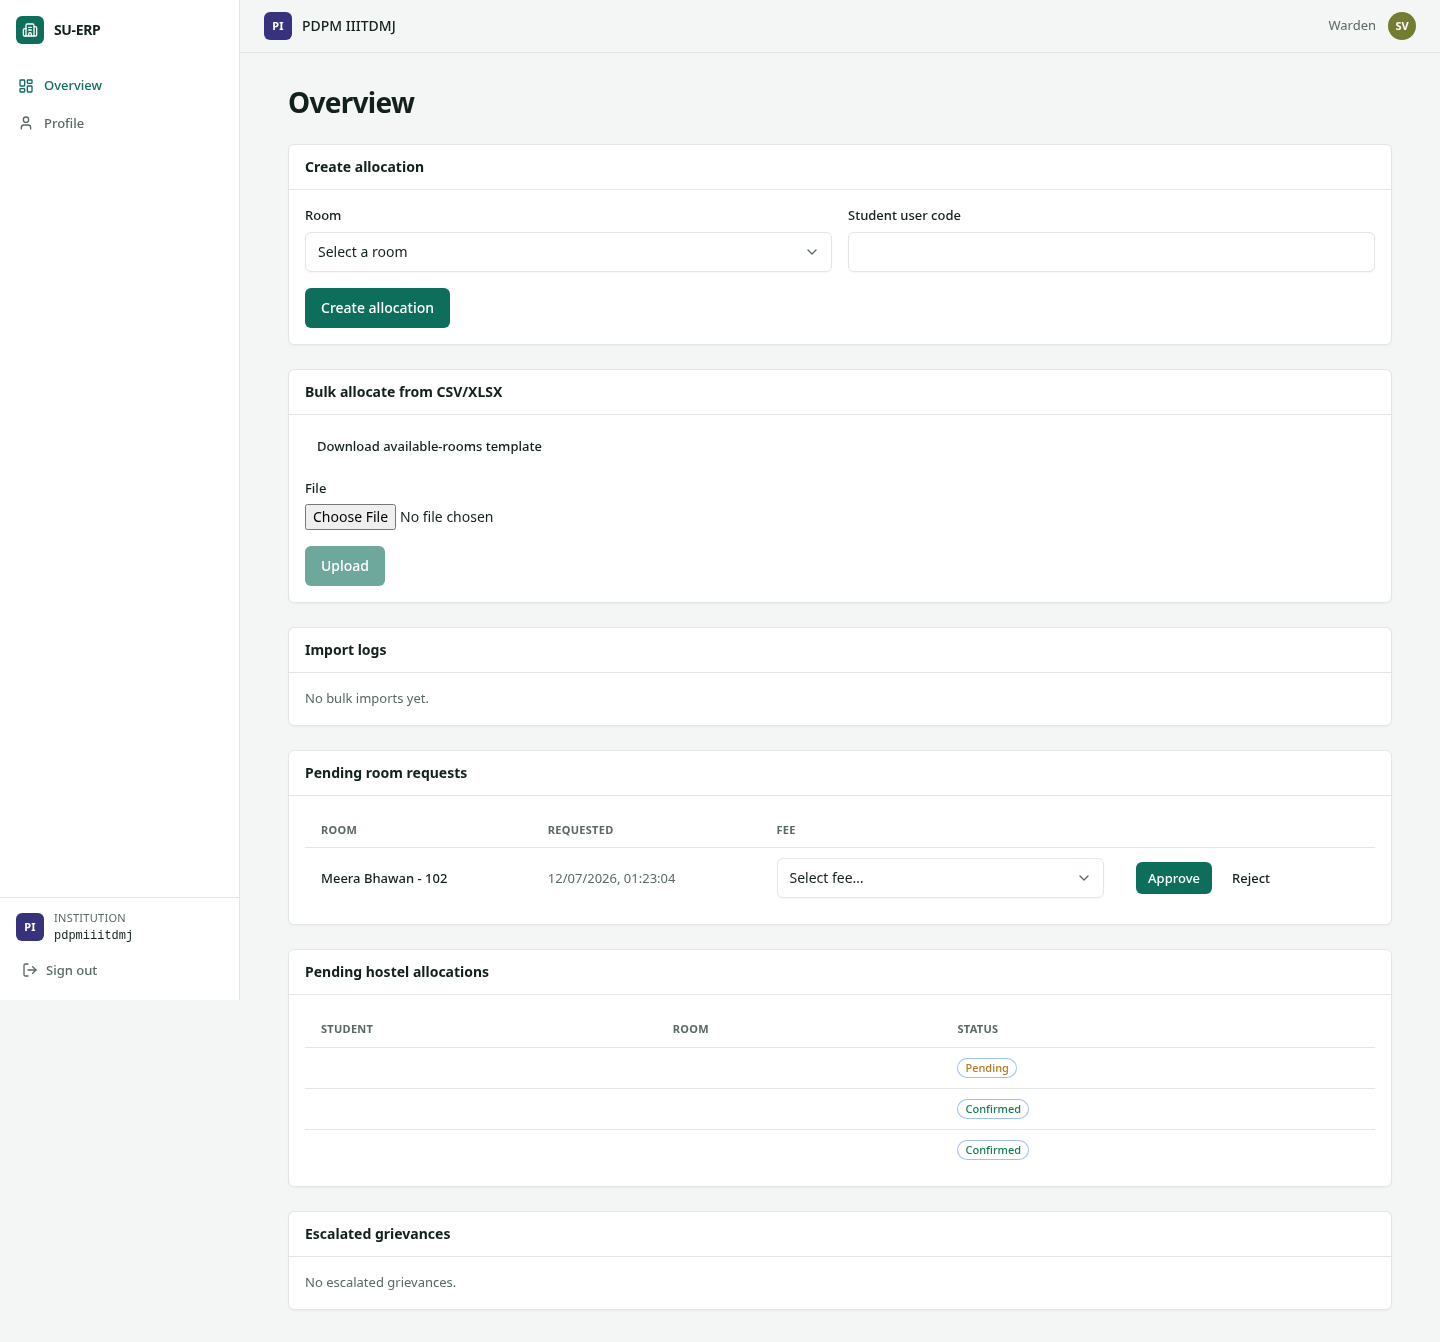
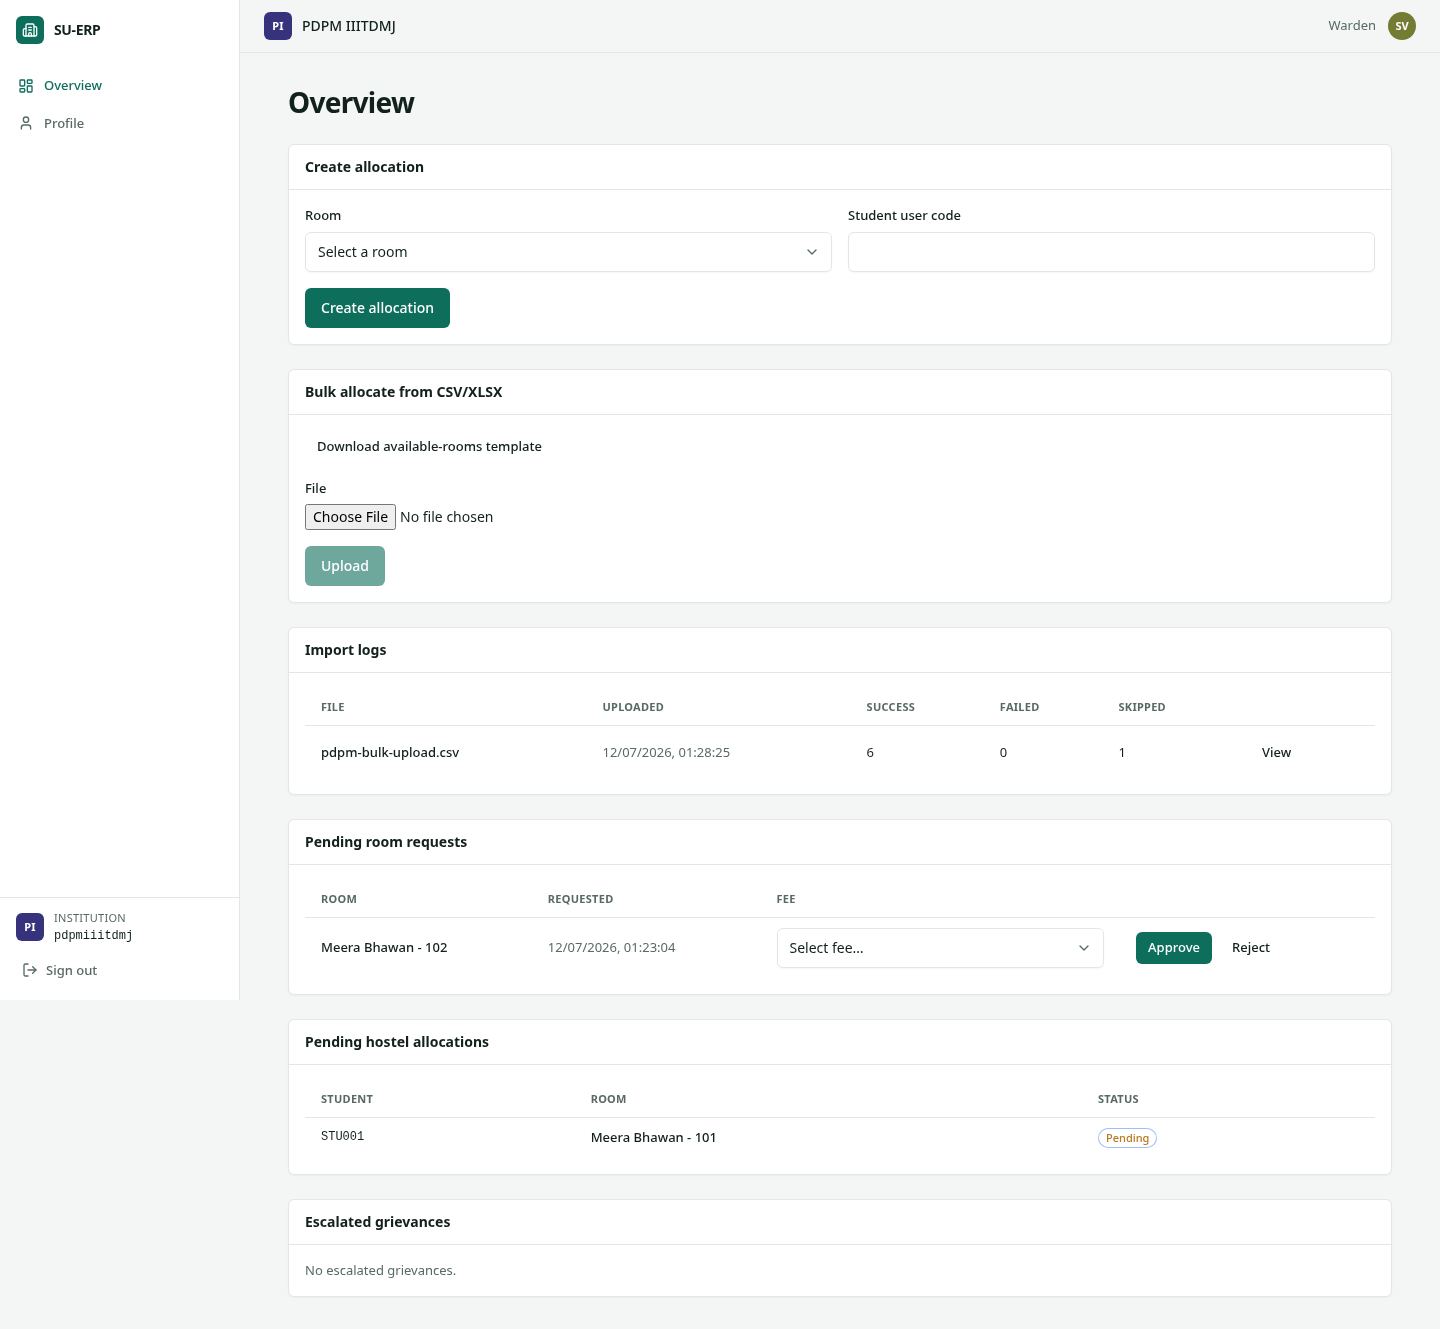
feat: update allocation model and serializers to use student_user_code and room_name

diff --git a/frontend/su-erp-web/src/app/(dashboard)/warden/page.tsx b/frontend/su-erp-web/src/app/(dashboard)/warden/page.tsx
@@ -17,8 +17,9 @@ import { Table, TBody, TD, TH, THead, HeaderRow, Row } from "@/components/ui/Tab
 
 interface Allocation {
   id: string;
-  student_id: string;
-  room: string;
+  student_user_code: string;
+  room_id: string;
+  room_name: string;
   status: string;
 }
 
@@ -152,8 +153,8 @@ function WardenContent() {
           <TBody>
             {allocations.map((a) => (
               <Row key={a.id}>
-                <TD className="font-mono text-[12px]">{a.student_id}</TD>
-                <TD className="font-medium">{a.room}</TD>
+                <TD className="font-mono text-[12px]">{a.student_user_code}</TD>
+                <TD className="font-medium">{a.room_name}</TD>
                 <TD>
                   <StatusPill status={a.status} />
                 </TD>

diff --git a/services/hostel-service/hostel/serializers.py b/services/hostel-service/hostel/serializers.py
@@ -22,11 +22,15 @@ class AllocateRequestSerializer(serializers.Serializer):
 
 class AllocationSerializer(serializers.ModelSerializer):
     room_id = serializers.UUIDField(source="room.id", read_only=True)
+    room_name = serializers.SerializerMethodField()
 
     class Meta:
         model = Allocation
-        fields = ["id", "status", "room_id", "student_user_code", "allocated_on"]
+        fields = ["id", "status", "room_id", "room_name", "student_user_code", "allocated_on"]
         read_only_fields = fields
+
+    def get_room_name(self, obj):
+        return f"{obj.room.block.name} - {obj.room.room_no}"
 
 
 class RoomSerializer(serializers.ModelSerializer):

diff --git a/services/hostel-service/hostel/views.py b/services/hostel-service/hostel/views.py
@@ -174,7 +174,11 @@ class AllocationListView(ListAPIView):
     permission_classes = [IsAuthenticated]
 
     def get_queryset(self):
-        return Allocation.objects.all().order_by("-created_at")
+        qs = Allocation.objects.select_related("room", "room__block").order_by("-created_at")
+        status = self.request.query_params.get("status")
+        if status:
+            qs = qs.filter(status=status)
+        return qs
 
 
 class RoomRequestListCreateView(APIView):